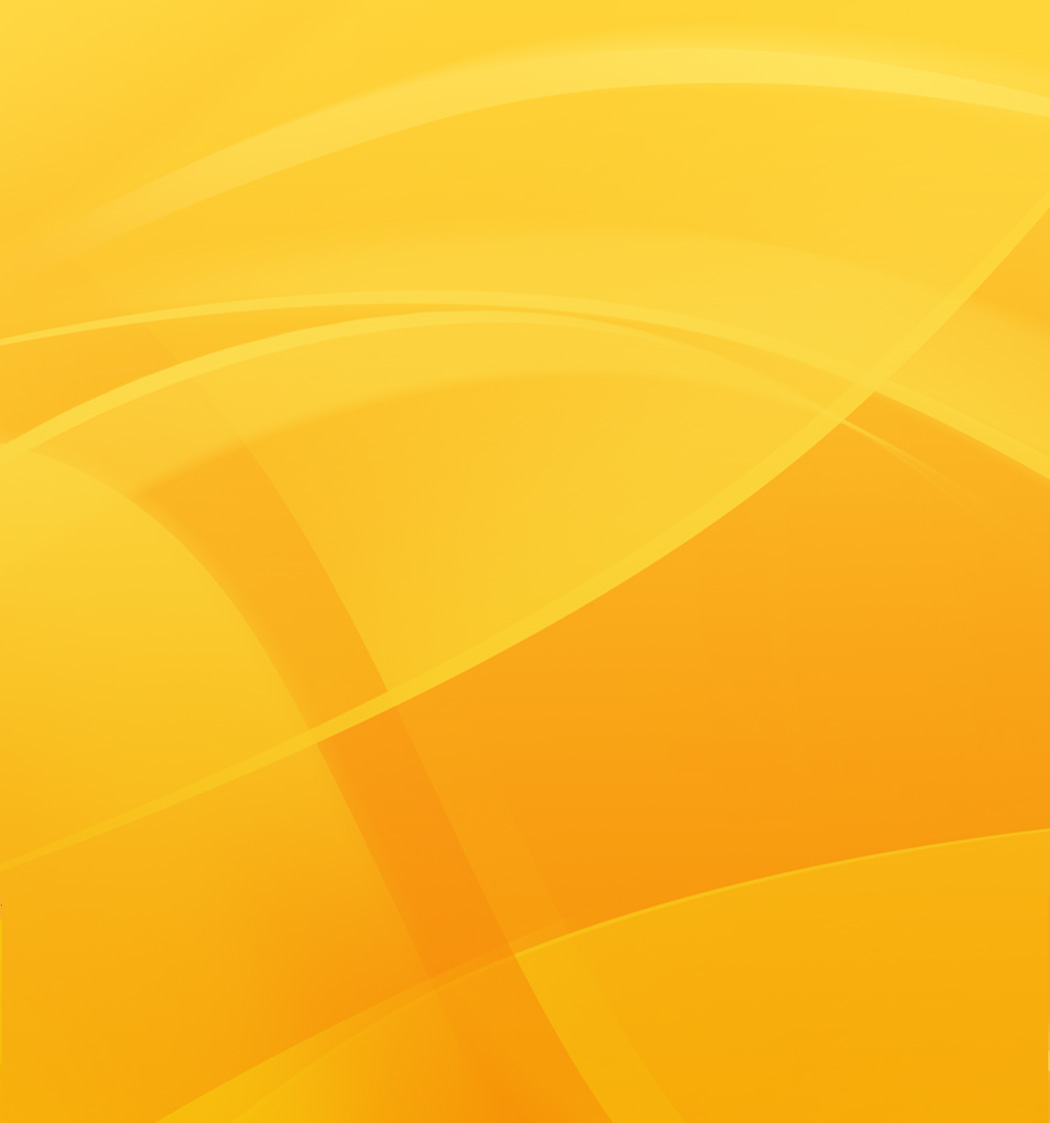
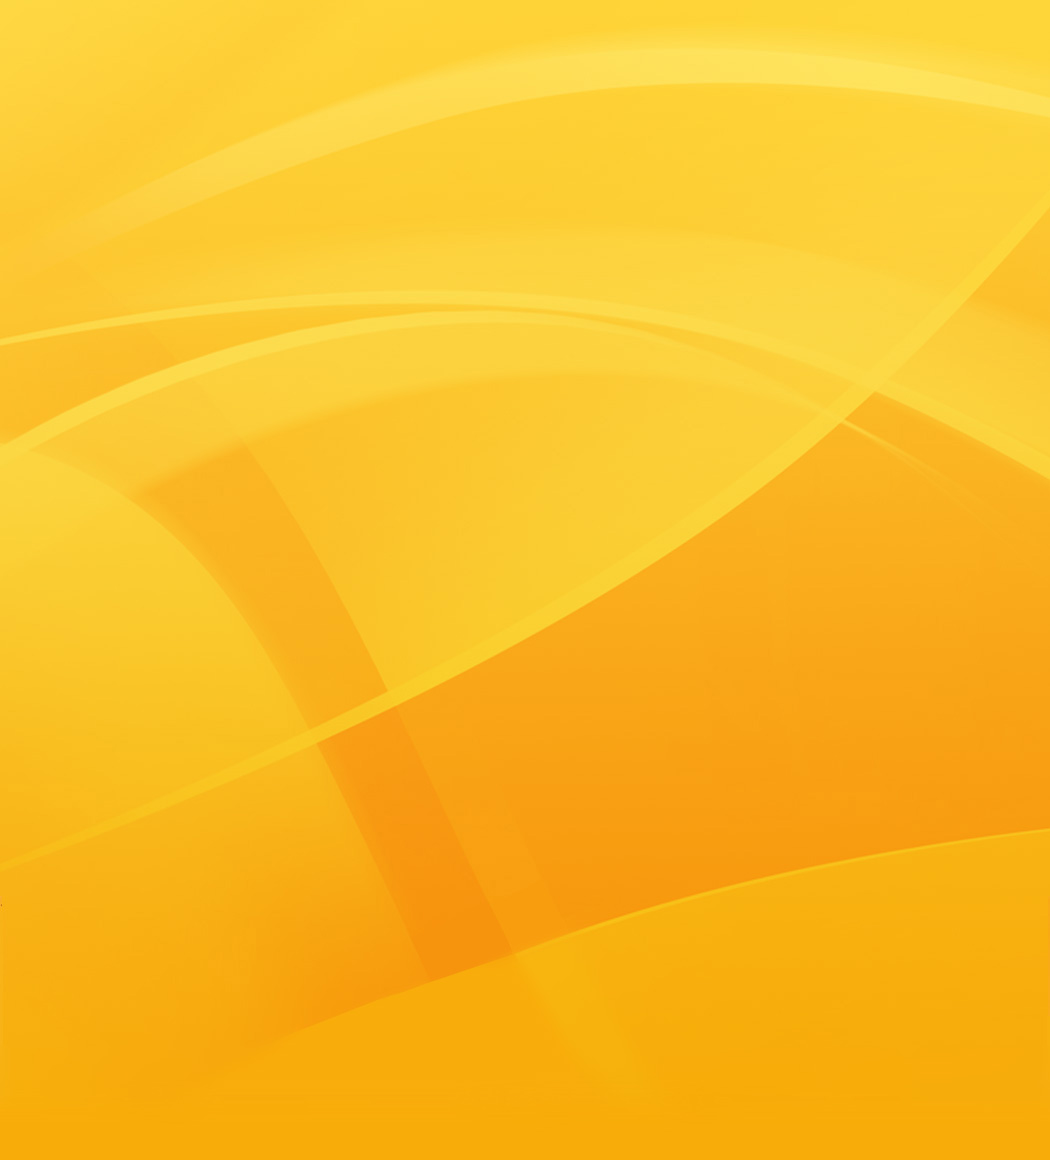
better yellow background image with smooth transition to css background

diff --git a/css/angular.css b/css/angular.css
@@ -67,7 +67,7 @@ li {
     width: 1050px;
     text-align: left;
     margin: 0px auto;
-    background: #FC0 url(../img/yellow_bkgnd.jpg) no-repeat 0px;
+    background: #F8AC09 url(../img/yellow_bkgnd.jpg) no-repeat 0px;
     z-index: 1;
 }
 
@@ -75,7 +75,7 @@ li {
     width: 1050px;
     text-align: left;
     margin: 0px auto;
-    background: #FC0 url(../img/yellow_bkgnd.jpg) no-repeat;
+    background: #F8AC09 url(../img/yellow_bkgnd.jpg) no-repeat;
     top: 0px;
     height: 1650px;
 }
